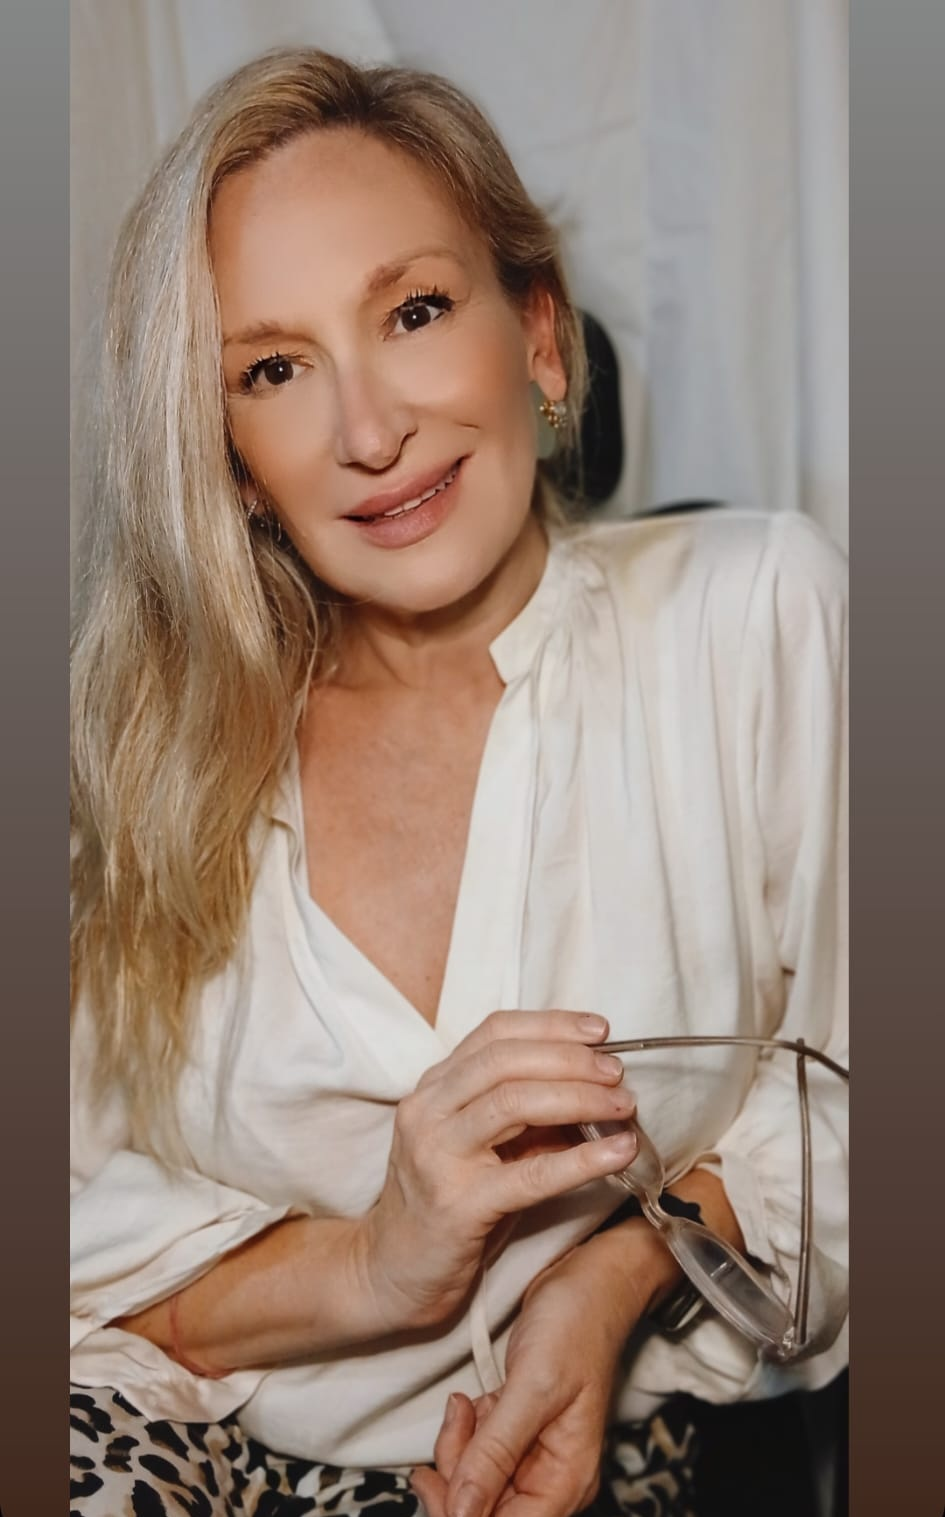
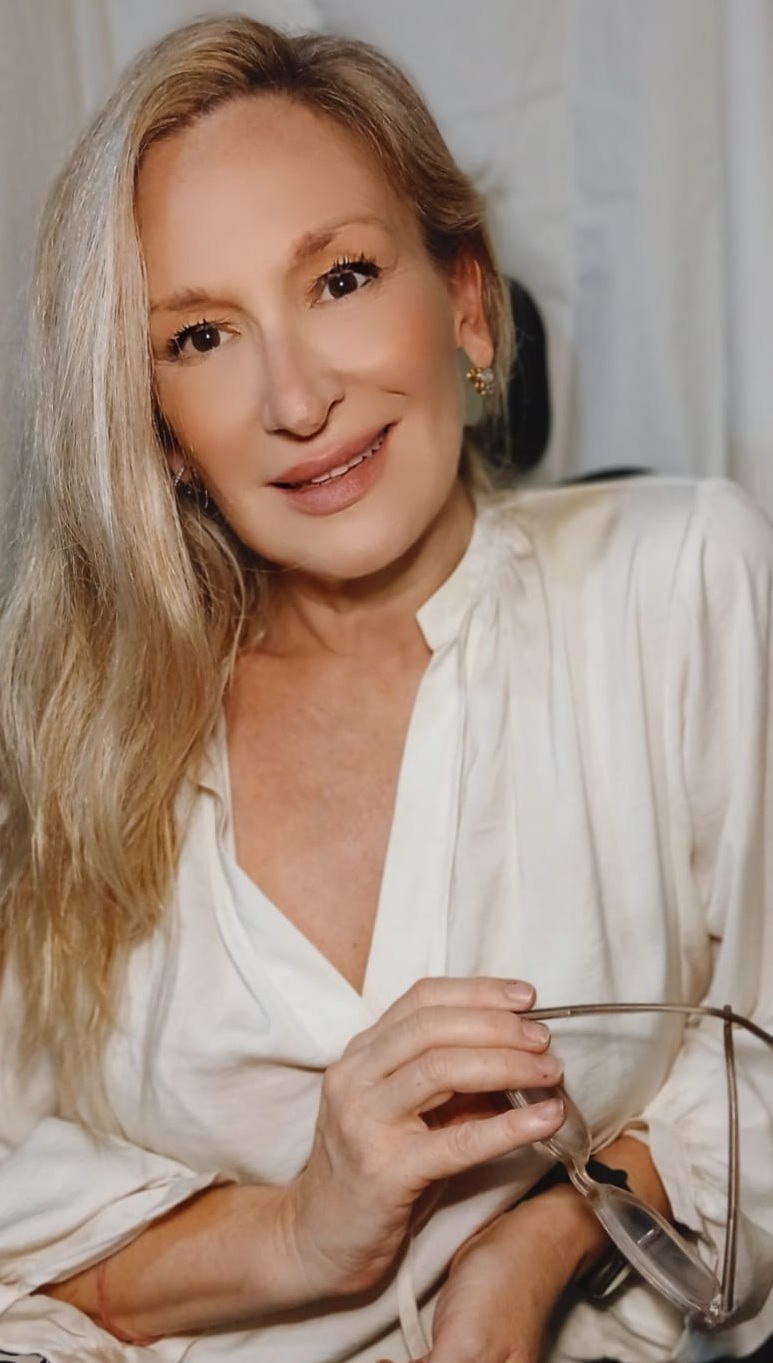
.

diff --git a/index.html b/index.html
@@ -866,11 +866,44 @@
           <div class="row align-items-center gy-5">
             <div class="col-lg-5" data-aos="fade-right" data-aos-delay="200">
               <div class="author-image">
-                <img
-                  src="assets/img/person/persona-2.jpeg"
-                  alt="Author Name"
-                  class="img-fluid"
-                />
+                <div class="swiper author-swiper">
+                  <div class="swiper-wrapper">
+                    <!-- Slide 1 -->
+                    <div class="swiper-slide">
+                      <img
+                        src="assets/img/person/persona-1.jpg"
+                        alt="Autor 1"
+                        class="swiper-lazy"
+                      />
+                    </div>
+                    <!-- Slide 2 -->
+                    <div class="swiper-slide">
+                      <img
+                        src="assets/img/person/persona-2.jpeg"
+                        alt="Autor 2"
+                        class="swiper-lazy"
+                      />
+                    </div>
+                    <!-- Slide 3 -->
+                    <div class="swiper-slide">
+                      <img
+                        src="assets/img/person/persona-3.jpg"
+                        alt="Autor 3"
+                        class="swiper-lazy"
+                      />
+                    </div>
+                    <!-- Slide 4 -->
+                    <div class="swiper-slide">
+                      <img
+                        src="assets/img/person/persona-4.jpg"
+                        alt="Autor 4"
+                        class="swiper-lazy"
+                      />
+                    </div>
+                  </div>
+                </div>
+
+                <!-- Firma superpuesta -->
                 <div class="author-signature">
                   <img
                     src="assets/img/misc/firma2.png"
@@ -2345,6 +2378,24 @@
         preloadImages: false,
         lazy: { enabled: true, loadPrevNext: true, loadPrevNextAmount: 1 },
         allowTouchMove: true,
+      });
+    </script>
+    <script>
+      document.addEventListener("DOMContentLoaded", function () {
+        const authorswiper = new Swiper(".author-swiper", {
+          loop: true,
+          speed: 800,
+          effect: "fade",
+          fadeEffect: { crossFade: true },
+          autoplay: { delay: 2600, disableOnInteraction: false },
+          allowTouchMove: false,
+          simulateTouch: false,
+          grabCursor: false,
+          keyboard: { enabled: false },
+          mousewheel: false,
+          preloadImages: false,
+          lazy: { loadPrevNext: true },
+        });
       });
     </script>
     <script>

diff --git a/assets/css/main.css b/assets/css/main.css
@@ -3635,3 +3635,50 @@ a.btn-primary:hover {
     right: 16px;
   }
 }
+
+.author-image { position: relative; }
+
+.author-swiper{
+  width: 100%;
+  aspect-ratio: 4 / 5;         /* SIEMPRE el mismo alto relativo */
+  overflow: hidden;
+  border-radius: 14px;
+  background: #eee;            /* evita parpadeo mientras carga */
+  pointer-events: none;        /* sin interacción */
+}
+
+.author-swiper .swiper-slide{
+  width: 100%;
+  height: 100%;
+  display: grid;
+  place-items: center;
+}
+
+.author-swiper img{
+  width: 100%;
+  height: 100%;
+  object-fit: cover;           /* recorta sin deformar */
+}
+
+/* Firma en la esquina */
+.author-signature{
+  position: absolute;
+  right: 16px;
+  bottom: 12px;
+  max-width: 40%;
+  filter: drop-shadow(0 2px 6px rgba(0,0,0,.25));
+  pointer-events: none;
+}
+
+/* Fallback si algún browser no soporta aspect-ratio */
+@supports not (aspect-ratio: 4 / 5){
+  .author-swiper { position: relative; }
+  .author-swiper::before{
+    content: "";
+    display: block;
+    padding-top: 125%; /* 4:5 => 5/4 = 125% */
+  }
+  .author-swiper .swiper-wrapper{
+    position: absolute; inset: 0;
+  }
+}
